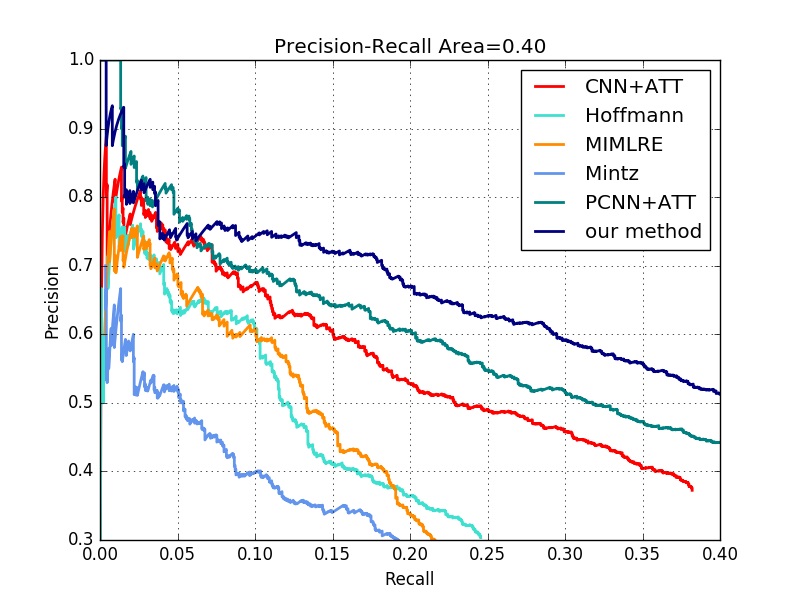
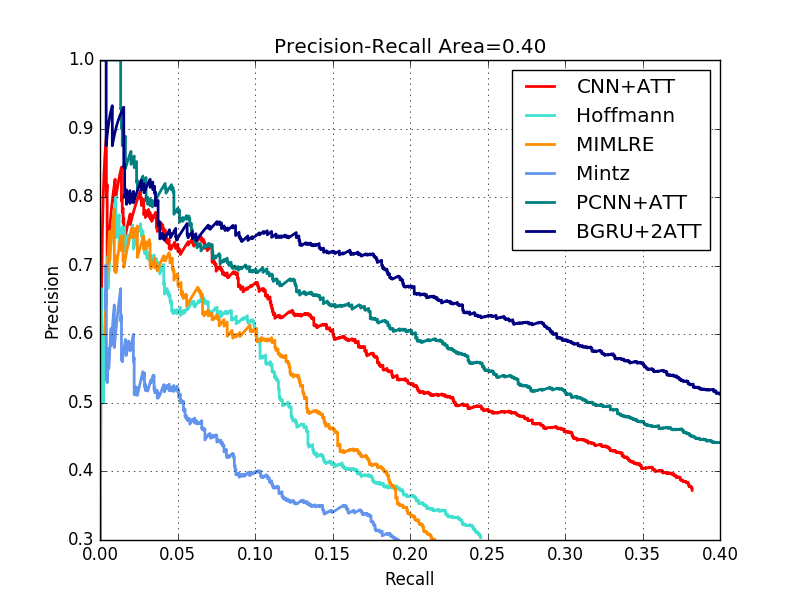
fix images and plot

Changed region(s): [[0.7188, 0.12, 0.875, 0.42], [0.625, 0.12, 0.6562, 0.42]]

diff --git a/README.md b/README.md
@@ -1,12 +1,12 @@
 #Neural Relation Extraction(NRE)
-Neural relation extraction aims to extract relations from plain text with neural models, which has been the state-of-the-art methods for relation extraction. In this project, we provide our implementations of a word-level and sentence-level combined Bidirectional GRU network.  
+Neural relation extraction aims to extract relations from plain text with neural models, which has been the state-of-the-art methods for relation extraction. In this project, we provide our implementations of a word-level and sentence-level combined Bidirectional GRU network (BGRU+2ATT).  
 
 We come up with the idea from the paper "Attention-Based Bidirectional Long Short-Term Memory Networks for Relation Classification" [Zhou et al.,2016] and the paper "Neural Relation Extraction with Selective Attention over Instances" [Lin et al.,2016]. And we compare our results with PCNN+ATT [Lin et al.,2016] on the same dataset.
 #Evaluation Results
-P@N comparison between PCNN+ATT and our method
+P@N comparison between PCNN+ATT and our method(BGRU+2ATT)
 ![](./images/table.png)
 
-Precision/Recall curve of our method compared to others'
+Precision/Recall curve of our method(BGRU+2ATT) compared to others'
 ![](./images/iter_11400.png)
 
 
